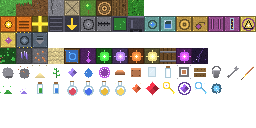
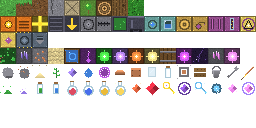
Source fusion: fuse two adjacent sources into a Resonant Source
A Fusion Catalyst (hand-craft, hotbar tool) RMB'd at a source consumes it
plus an orthogonally-adjacent source of a DIFFERENT type and transmutes the
aimed cell into a Resonant Source (partner cell clears). The hybrid rides
every data-driven source path unchanged -- grows Resonant Nodes via
updateSources, drops a relocatable item, glows, Miner-harvestable -- so no
new sim code. Its raw, Resonance, is a premium catalyst: Resonance ->
Philosopher's Catalyst (terminal sink) and Resonance x2 -> Fusion Catalyst
(self-sustaining). The bootstrap catalyst costs a Philosopher's Stone,
giving the reagent chain's former dead-end trophy a use.

- WorldEdit::fuseSources owns the transmute + source-registry sync.
- Append-only Block/Item enums + unchanged m_sources save format => no
  save version bump (v11/v12 precedent).
- F6 dev kit grants a Fusion Catalyst + two source blocks for testing.
- New atlas tiles 61/62/94/95 painted in make_atlas.py (Resonant Node,
  Resonant Source, Resonance, Fusion Catalyst).

Changed region(s): [[0.8125, 0.375, 0.9375, 0.5], [0.875, 0.625, 1.0, 0.75]]

diff --git a/game/src/VoxelGamePlayer.cpp b/game/src/VoxelGamePlayer.cpp
@@ -87,11 +87,13 @@ void VoxelGame::onUpdate(float dt) {
     }
 
     // F6 is a dev key (the F4 precedent): the boss-testing kit — a Teleport
-    // Key + Copper Sword, assigned onto the hotbar so they are usable at once
-    // (the default hotbar is full; the last two slots are sacrificed).
+    // Key + Copper Sword + Fusion Catalyst, plus two different source blocks so
+    // fusion is testable straight away (place them adjacent, RMB the catalyst).
+    // All assigned onto the hotbar so they are usable at once (the default
+    // hotbar is full; the last slots are sacrificed).
     if (input().wasKeyPressed(SDL_SCANCODE_F6)) {
-        auto give = [&](ItemId id, int fallbackSlot) {
-            m_inventory.add(id, 1);
+        auto give = [&](ItemId id, int count, int fallbackSlot) {
+            m_inventory.add(id, count);
             for (ItemId s : m_hotbar) {
                 if (s == id) return; // already assigned
             }
@@ -100,9 +102,12 @@ void VoxelGame::onUpdate(float dt) {
             }
             m_hotbar[fallbackSlot] = id;
         };
-        give(ItemId::TeleportKey, kHotbarSlots - 3);
-        give(ItemId::StormKey, kHotbarSlots - 2);
-        give(ItemId::CopperSword, kHotbarSlots - 1);
+        give(ItemId::CrystalSourceItem, 4, kHotbarSlots - 6);
+        give(ItemId::EssenceSourceItem, 4, kHotbarSlots - 5);
+        give(ItemId::TeleportKey, 1, kHotbarSlots - 4);
+        give(ItemId::StormKey, 1, kHotbarSlots - 3);
+        give(ItemId::CopperSword, 1, kHotbarSlots - 2);
+        give(ItemId::FusionCatalyst, 1, kHotbarSlots - 1);
         updateTitle();
         audio().play("craft", kCraftVolume);
     }
@@ -311,7 +316,18 @@ void VoxelGame::onUpdate(float dt) {
         // instead); otherwise place the held item into the empty target cell.
         if (!drank && input().wasMousePressed(SDL_BUTTON_RIGHT)) {
             const bool aimedMachine = m_machines.find(tb) != m_machines.end();
-            if (aimedMachine && !input().isKeyDown(SDL_SCANCODE_LSHIFT)) {
+            if (held == ItemId::FusionCatalyst && m_inventory.has(held)) {
+                // Fuse the aimed source with a different adjacent source; the
+                // catalyst is spent only on a successful pairing.
+                if (WorldEdit::fuseSources(*m_world, editRegistries(), tb)) {
+                    audio().playAt("craft", glm::vec3(tb) + glm::vec3(0.5f),
+                                   kCraftVolume, pitchJitter(tb));
+                    m_inventory.remove(held, 1);
+                    updateTitle();
+                } else {
+                    audio().play("deny", kCraftVolume);
+                }
+            } else if (aimedMachine && !input().isKeyDown(SDL_SCANCODE_LSHIFT)) {
                 openMachineUi(tb);
             } else {
                 const glm::ivec3 p = aim.block + aim.normal;

diff --git a/tools/make_atlas.py b/tools/make_atlas.py
@@ -126,10 +126,12 @@ COPPER = (179, 115, 77)
 SAND = (217, 199, 140)
 WATER = (64, 128, 217)
 ESSENCE = (153, 71, 184)
+RESONANT = (236, 130, 236)  # fusion hybrid (crystal + essence)
 
 SOURCES = {  # tile -> glow color (matches the Source* block colors)
     54: (77, 242, 77), 55: (191, 140, 255), 56: (255, 140, 64),
     57: (255, 235, 140), 59: (217, 89, 255),
+    62: (255, 150, 255),  # resonant source (source fusion)
 }
 
 BARREL = (102, 71, 38)  # rain-barrel staves
@@ -489,6 +491,14 @@ def nodes_and_sources():
     t.disc(8, 12, 2, shade(ESSENCE, 1.3))
     t.px(8, 3, (245, 220, 255))
 
+    t = paint(61)                                    # resonant node (fusion)
+    t.fill(shade(STONE, 0.6), noise=0.10, edge=0.2)
+    for cx, cy, h in ((5, 9, 5), (10, 10, 6), (8, 7, 4)):
+        for k in range(h):                           # magenta shard columns
+            t.px(cx, cy - k, shade(RESONANT, 0.9 + k * 0.12))
+            t.px(cx + 1, cy - k + 1, shade(RESONANT, 0.7))
+        t.px(cx, cy - h, (255, 240, 255))
+
     for tile, glow in SOURCES.items():
         source(paint(tile), glow)
 
@@ -627,6 +637,17 @@ def items():
     gem(t, (200, 40, 60), big=True)
     for dx, dy in ((-7, 0), (7, 0), (0, -7), (0, 7)):
         t.px(8 + dx, 8 + dy, (255, 210, 220))
+
+    t = paint(94)                                    # resonance (fusion raw)
+    gem(t, RESONANT)
+    t.px(4, 4, (255, 245, 255))
+    t.px(12, 11, (255, 220, 255))
+
+    t = paint(95)                                    # fusion catalyst
+    gem(t, RESONANT)
+    t.ring(8, 8, 6, shade(CRYSTAL, 1.15))            # crystal + essence halo
+    t.px(11, 4, (255, 240, 255))
+    t.px(5, 12, (235, 200, 255))
 
 
 def boss_tier():

diff --git a/game/src/WorldEdit.cpp b/game/src/WorldEdit.cpp
@@ -83,4 +83,26 @@ bool rotateBelt(World& world, MachineSystem::BeltMap& belts, const glm::ivec3& p
     return true;
 }
 
+bool fuseSources(World& world, const Registries& regs, const glm::ivec3& aimed) {
+    const BlockId a = world.getBlock(aimed.x, aimed.y, aimed.z);
+    if (!isSource(a)) return false;
+
+    static const glm::ivec3 kNeighbors[6] = {
+        {1, 0, 0}, {-1, 0, 0}, {0, 1, 0}, {0, -1, 0}, {0, 0, 1}, {0, 0, -1}};
+    for (const glm::ivec3& d : kNeighbors) {
+        const glm::ivec3 n = aimed + d;
+        const BlockId b = world.getBlock(n.x, n.y, n.z);
+        if (!isSource(b) || b == a) continue; // need a DIFFERENT source
+
+        // Consume both parents into one Resonant Source at the aimed cell.
+        regs.sources.erase(aimed);
+        regs.sources.erase(n);
+        world.setBlock(n.x, n.y, n.z, BlockId::Air);
+        world.setBlock(aimed.x, aimed.y, aimed.z, BlockId::ResonantSource);
+        regs.sources[aimed] = 0.0f; // starts growing its patch
+        return true;
+    }
+    return false;
+}
+
 } // namespace WorldEdit

diff --git a/game/src/Block.cpp b/game/src/Block.cpp
@@ -88,6 +88,15 @@ namespace {
          .tiles = {52, 58, 58}}, // open water top, stave sides
         {.id = B::VoidStone, .name = "Voidstone", .color = {0.24f, 0.16f, 0.36f},
          .tiles = {60, 60, 60}}, // arena ground; deliberately no drop
+        // Source fusion: the hybrid node + the source that grows it. The
+        // Resonant Source rides every data-driven source path (grows via
+        // updateSources, drops a relocatable item, glows) with no new sim
+        // code; the node is harvested like any other.
+        {.id = B::ResonantNode, .name = "Resonant Node", .color = {0.95f, 0.55f, 0.95f},
+         .node = true, .drop = {I::Resonance, 1}, .tiles = {61, 61, 61}},
+        {.id = B::ResonantSource, .name = "Resonant Source", .color = {1.00f, 0.60f, 1.00f},
+         .emissive = 0.7f, .source = true, .spawnsNode = B::ResonantNode,
+         .drop = {I::ResonantSourceItem, 1}, .tiles = {62, 62, 62}},
     };
 
     static_assert(std::size(kBlocks) == static_cast<std::size_t>(BlockId::Count),

diff --git a/game/src/Recipes.cpp b/game/src/Recipes.cpp
@@ -42,6 +42,14 @@ namespace {
         // Storm Key is gated on beating the Void Warden (its catalyst).
         {{{I::PhilosophersCatalyst, 1}, {I::Crystal, 4}, {I::Essence, 2}}, {I::TeleportKey, 1}},
         {{{I::VoidCatalyst, 1}, {I::Crystal, 4}, {I::SpringWater, 4}},     {I::StormKey, 1}},
+        // Source fusion. The bootstrap catalyst finally gives the
+        // Philosopher's Stone (the chain's dead-end trophy) a use; fusion
+        // output then sustains more catalysts AND converts to premium
+        // Philosopher's Catalyst -- closing the loop the same way the source
+        // crafts above do (resource production is itself craftable).
+        {{{I::PhilosophersStone, 1}, {I::Crystal, 2}, {I::Essence, 2}}, {I::FusionCatalyst, 1}},
+        {{{I::Resonance, 2}},                                          {I::FusionCatalyst, 1}},
+        {{{I::Resonance, 1}},                                          {I::PhilosophersCatalyst, 1}},
     };
 }
 

diff --git a/game/src/Item.cpp b/game/src/Item.cpp
@@ -82,6 +82,12 @@ namespace {
         {.id = I::VoidCatalyst, .name = "Void Catalyst", .atlasTile = 91},
         {.id = I::StormKey, .name = "Storm Key", .atlasTile = 92},
         {.id = I::StormCore, .name = "Storm Core", .atlasTile = 93},
+        // Source fusion. Resonance is Miner-harvestable (nodeBlock); the
+        // source item relocates the hybrid (borrows its block side tile); the
+        // catalyst is a consumed tool.
+        {.id = I::Resonance, .name = "Resonance", .atlasTile = 94, .nodeBlock = B::ResonantNode},
+        {.id = I::ResonantSourceItem, .name = "Resonant Source", .placeable = true, .placesBlock = B::ResonantSource},
+        {.id = I::FusionCatalyst, .name = "Fusion Catalyst", .atlasTile = 95},
     };
 
     static_assert(std::size(kItems) == static_cast<std::size_t>(ItemId::Count),

diff --git a/game/include/game/WorldEdit.h b/game/include/game/WorldEdit.h
@@ -56,4 +56,11 @@ namespace WorldEdit {
     // cardinals (and queueing the arrow remesh). False = no belt there.
     bool rotateBelt(World& world, MachineSystem::BeltMap& belts, const glm::ivec3& pos);
 
+    // Source fusion: if `aimed` is a source with an orthogonally-adjacent
+    // source of a DIFFERENT type, consume both (partner cell -> Air) and
+    // transmute `aimed` into a Resonant Source, keeping the source registry
+    // in sync. Returns false (no change) if there is no valid pair. The
+    // caller owns the catalyst spend + the sound.
+    bool fuseSources(World& world, const Registries& regs, const glm::ivec3& aimed);
+
 } // namespace WorldEdit

diff --git a/game/include/game/Block.h b/game/include/game/Block.h
@@ -56,6 +56,10 @@ enum class BlockId : std::uint8_t {
     // The boss arena's ground (BossArena dimension). Drops nothing -- the
     // arena is transient and not a quarry.
     VoidStone,
+    // Source fusion: two adjacent different sources fuse (via a Fusion
+    // Catalyst) into a Resonant Source that grows Resonant Nodes.
+    ResonantNode,
+    ResonantSource,
     Count
 };
 

diff --git a/game/include/game/Item.h b/game/include/game/Item.h
@@ -79,6 +79,11 @@ enum class ItemId : std::uint8_t {
     VoidCatalyst,
     StormKey,
     StormCore,
+    // Source fusion: the hybrid raw the Resonant Source yields, its
+    // relocatable source item, and the consumed catalyst that fuses a pair.
+    Resonance,
+    ResonantSourceItem,
+    FusionCatalyst,
     Count
 };
 

diff --git a/CLAUDE.md b/CLAUDE.md
@@ -171,6 +171,18 @@ World & closed-loop economy:
   Elixir → Refined Elixir → Philosopher's Catalyst → Philosopher's Stone.
 - **Closed loop** — new sources are hand-craftable from a Catalyst + 8 of the raw, so
   resource production itself is expandable.
+- **Source fusion** — the **Fusion Catalyst** (hand-craft, a hotbar tool like the boss
+  keys) is RMB'd at a source block; `WorldEdit::fuseSources` consumes it plus one
+  orthogonally-adjacent source of a DIFFERENT type, transmuting the aimed cell into a
+  **Resonant Source** (the partner cell clears). The hybrid rides every data-driven
+  source path unchanged (grows **Resonant Node**s via `updateSources`, drops a
+  relocatable `ResonantSourceItem`, glows, Miner-harvestable) — no new sim code. Its
+  raw, **Resonance**, is a premium catalyst: `Resonance → Philosopher's Catalyst` (a
+  terminal sink feeding the source/key crafts) and `Resonance ×2 → Fusion Catalyst`
+  (self-sustaining). The bootstrap catalyst costs a **Philosopher's Stone** — giving the
+  chain's former dead-end trophy a use, so fusion is the true endgame reward.
+  Overworld-only (arena edits already deny); append-only blocks/items mean no save
+  version bump. F6 dev kit grants a Fusion Catalyst.
 - **Curated hotbar + inventory screen** — the hotbar is ten player-assigned slots
   (`m_hotbar` is `std::array<ItemId, kHotbarSlots>`; `ItemId::None` = empty; keys 1-9/0,
   wheel cycles all ten). The **Tab overlay** (`m_invOpen`, `invLayout()`/`update`/

diff --git a/game/assets/ATLAS.md b/game/assets/ATLAS.md
@@ -52,7 +52,8 @@ you want to *discard* hand edits and start over.
 | 54 | herb source | 55 | crystal source |
 | 56 | copper source | 57 | sand source |
 | 58 | water source | 59 | essence source |
-| 60 | voidstone (boss arena) | 61-63 | spare |
+| 60 | voidstone (boss arena) | 61 | resonant node |
+| 62 | resonant source | 63 | spare |
 
 ## Rows 4-5 — item icons (tiles 64-95; transparency welcome)
 
@@ -73,7 +74,7 @@ you want to *discard* hand edits and start over.
 | 88 | philosopher's catalyst | 89 | philosopher's stone |
 | 90 | teleport key | 91 | void catalyst |
 | 92 | storm key | 93 | storm core |
-| 94-95 | spare | | |
+| 94 | resonance | 95 | fusion catalyst |
 
 ## Rows 6-7 — spare (tiles 96-127)
 
